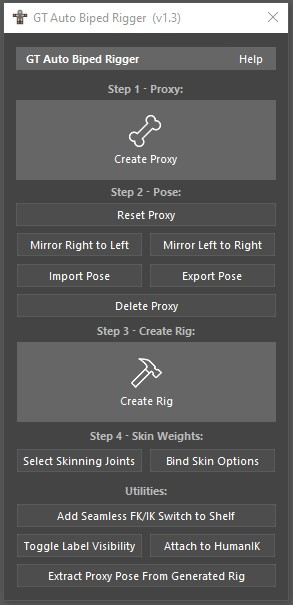
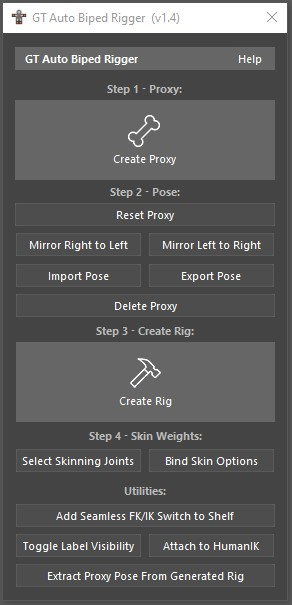
Created auto breathing system (#35)

diff --git a/python-scripts/gt_auto_biped_rigger.py b/python-scripts/gt_auto_biped_rigger.py
@@ -47,6 +47,7 @@
  Added finger abduction/adduction control and updated the name of a few attributes
     
  1.4 - 2021-01-23
+ Create auto breathing system
  Added check for geometry group (common name)
  Updated "orient_to_target" function to enforce proxy direction properly
  Added manip default to the foot roll controls
@@ -57,8 +58,9 @@
  Created sin function without expressions
  Created a trigonometry sine function that doesn't use third-party plugins or expressions
  Added debugging option to auto import proxy templates and auto bind geometry
-     Added auto breathing system
-     Added notes to the knee proxies (similar to elbows)
+ Added a check for required plugins before running the script
+ Changed the data transfer type of the clavicles to allow for offsets (for auto breathing)
+ Added notes to the knee proxies (similar to elbows)
  
 
  To do:
@@ -98,7 +100,7 @@ import re
 script_name = "GT Auto Biped Rigger"
 
 # Version:
-script_version = "1.4-beta"
+script_version = "1.4"
 
 # General Vars
 grp_suffix = 'grp'
@@ -116,11 +118,12 @@ automation_ctrl_color = (.6,.2,1) # Purple
 # Debugging Vars
 debugging = False # Activate Debugging Mode
 debugging_auto_recreate = True # Auto deletes proxy/rig before creating
-debugging_display_lra = True # Display LRA for all joints after generating
+debugging_display_lra = False # Display LRA for all joints after generating
+debugging_auto_breathing = True # Auto activates breathing Time
 debugging_import_proxy = True # Auto Imports Proxy
-debugging_import_path = '' # Path to auto import
+debugging_import_path = 'C:\\template.json' # Path to auto import
 debugging_bind_rig = True # Auto Binds Rig
-debugging_bind_geo = '' # Name of the geo to bind
+debugging_bind_geo = 'body_geo' # Name of the geo to bind
 
 # Loaded Elements Dictionary
 gt_ab_settings = { # General Settings
@@ -863,7 +866,7 @@ def make_stretchy_ik(ik_handle, stretchy_name='temp', attribute_holder=None):
     return [end_loc_one, stretchy_grp, end_ik_jnt]
 
 
-def add_sine_attributes(obj, sine_prefix='sine', tick_source_attr='time1.outTime', hide_used_inputs=True, add_absolute_output=False, nice_name_prefix=True):
+def add_sine_attributes(obj, sine_prefix='sine', tick_source_attr='time1.outTime', hide_unkeyable=True, add_absolute_output=False, nice_name_prefix=True):
     ''' 
     Create Sine function without using third-party plugins or expressions
     
@@ -871,11 +874,13 @@ def add_sine_attributes(obj, sine_prefix='sine', tick_source_attr='time1.outTime
                 obj (string): Name of the object
                 sine (string): Prefix given to the name of the attributes (default is "sine")
                 tick_source_attr (string): Name of the attribute used as the source for time. It uses the default "time1" node if nothing else is specified
-                hide_used_inputs (bool): Hides the tick and output attributes as they already have an input connection
+                hide_unkeyable (bool): Hides the tick and output attributes
                 add_absolute_output (bool): Also creates an output version that gives only positive numbers much like the abs() expression
 
             Returns:
-                sine_output_attr (string): A string with the name of the object and the name of the sine output attribute. E.g. "pSphere1.sineOutput"
+                sine_output_attrs (list): A string with the name of the object and the name of the sine output attribute. E.g. "pSphere1.sineOutput"
+                                          In case an absolute output is added, it will be the second object in the list. E.g. ["pSphere1.sineOutput", "pSphere1.sineAbsOutput"]
+                                          If add_absolute_output is False the second attribute is None
     '''
     # Load Required Plugins
     required_plugin = 'quatNodes'
@@ -883,7 +888,7 @@ def add_sine_attributes(obj, sine_prefix='sine', tick_source_attr='time1.outTime
         cmds.loadPlugin(required_plugin, qt=False)
   
     # Set Variables
-    influence_suffix = 'TimeInfluence'
+    influence_suffix = 'Time'
     amplitude_suffix = 'Amplitude'
     frequency_suffix = 'Frequency'
     offset_suffix = 'Offset'
@@ -917,7 +922,7 @@ def add_sine_attributes(obj, sine_prefix='sine', tick_source_attr='time1.outTime
         if add_absolute_output:
             cmds.addAttr(obj, ln=abs_attr, at='double', k=True)
     else:
-        cmds.addAttr(obj, ln=influence_attr, at='double', k=True, maxValue=1, minValue=0, nn=re.sub(r'(\w)([A-Z])', r'\1 \2', influence_suffix))
+        cmds.addAttr(obj, ln=influence_attr, at='double', k=True, maxValue=1, minValue=0, nn=influence_suffix)
         cmds.addAttr(obj, ln=amplitude_attr, at='double', k=True, nn=amplitude_suffix)
         cmds.addAttr(obj, ln=frequency_attr, at='double', k=True, nn=frequency_suffix)
         cmds.addAttr(obj, ln=offset_attr, at='double', k=True, nn=offset_suffix)
@@ -929,9 +934,11 @@ def add_sine_attributes(obj, sine_prefix='sine', tick_source_attr='time1.outTime
     cmds.setAttr(obj + '.' + amplitude_attr, 1)
     cmds.setAttr(obj + '.' + frequency_attr, 10)
     
-    if hide_used_inputs:
+    if hide_unkeyable:
         cmds.setAttr(obj + '.' + tick_attr, k=False)
         cmds.setAttr(obj + '.' + output_attr, k=False)
+    if add_absolute_output and hide_unkeyable:
+        cmds.setAttr(obj + '.' + abs_attr, k=False)
     
     cmds.connectAttr(tick_source_attr, influence_multiply_node + '.input1X')
     cmds.connectAttr(influence_multiply_node + '.outputX', obj + '.' + tick_attr)
@@ -957,8 +964,11 @@ def add_sine_attributes(obj, sine_prefix='sine', tick_source_attr='time1.outTime
         cmds.connectAttr(obj + '.' + output_attr, squared_node + '.input1X')
         cmds.connectAttr(squared_node + '.outputX', reverse_squared_node + '.input1X')
         cmds.connectAttr(reverse_squared_node + '.outputX', obj + '.' + abs_attr)
+        return [(obj + '.' + output_attr), (obj + '.' + abs_attr)]
+    else:
+        return [(obj + '.' + output_attr), None]
     
-    return (obj + '.' + output_attr)
+    
 
 
 def create_visualization_line(object_a, object_b):
@@ -1237,6 +1247,13 @@ def validate_operation(operation, debugging=False):
                 debugging (bool): Debugging mode causes the script to auto delete previous objects (for quick iteration)
 
     '''
+    
+    # Load Required Plugins
+    required_plugins = ['quatNodes','matrixNodes']
+    for plugin in required_plugins:
+        if not cmds.pluginInfo(plugin, q=True, loaded=True):
+            cmds.loadPlugin(plugin, qt=False)
+    
     is_valid = True
     if operation == 'create_proxy':
         # Debugging (Auto deletes generated proxy)
@@ -2389,9 +2406,13 @@ def create_proxy(colorize_proxy=True):
             # Notes Only
             if gt_ab_settings.get('left_eye_proxy_crv') in proxy_crv or gt_ab_settings.get('right_eye_proxy_crv') in proxy_crv:
                 add_node_note(proxy_crv, 'This is an eye proxy.\nThis element should be snapped to the center of the eye geometry.\nYou can see the center of the eye by selecting the eye geometry then going to "Display > Transform Display > Local Rotation Axes".\nYou can then use this axis to snap the joint to its center. (Using "Ctrl + V")\n\nPS: If for some reason the pivot point is not in the center of the eye, you can reset it first: "Modify > Center Pivot".')
+            
             if gt_ab_settings.get('left_elbow_proxy_crv') in proxy_crv or gt_ab_settings.get('right_elbow_proxy_crv') in proxy_crv:
                 add_node_note(proxy_crv, 'This is an elbow proxy.\nThe movement of this element is intentionaly limited to attempt to keep the joints in one single plane. For better results keep the arm joints in "T" or "A" pose.')
-                
+            
+            if gt_ab_settings.get('left_knee_proxy_crv') in proxy_crv or gt_ab_settings.get('right_knee_proxy_crv') in proxy_crv:
+                add_node_note(proxy_crv, 'This is a knee proxy.\nThe movement of this element is intentionaly limited to attempt to keep the joints in one single plane. For better results keep the leg joints in "T" or "A" pose.')
+
             if colorize_proxy:
                 change_viewport_color(proxy_crv, color)
             if colorize_proxy and is_end_jnt:
@@ -6354,7 +6375,11 @@ def create_controls():
     cmds.parent(left_forearm_grp, arms_automation_grp)
     cmds.parent(right_forearm_grp, arms_automation_grp)
     
-    # Top Groups Groups
+    # General Automation Hierarchy - Used for auto breathing
+    general_automation_grp = cmds.group(name='generalAutomation_grp', world=True, empty=True)
+    change_outliner_color(general_automation_grp, (1, .65, .45))
+    
+    ###### Main Hierarchy for Top Parent Groups ######
     if cmds.objExists('geometry_grp'):
         geometry_grp = 'geometry_grp'
     else:
@@ -6363,6 +6388,7 @@ def create_controls():
     rig_grp = cmds.group(name='rig_grp', empty=True, world=True)
     change_outliner_color(rig_grp, (1,.45,.7))
     cmds.parent(stretchy_system_grp, rig_setup_grp)
+    cmds.parent(general_automation_grp, rig_setup_grp)
     cmds.parent(arms_automation_grp, rig_setup_grp)
     cmds.parent(finger_automation_grp, rig_setup_grp)
     cmds.parent(spine_automation_grp, rig_setup_grp)
@@ -6408,14 +6434,15 @@ def create_controls():
     
     ################# Joint Inflation System #################
     
-    # Elements to Inflate/Deflate
+    # Elements to Inflate/Deflate - Ctrl, CtrlGrp, Joint, CreateOffset?
+    create_offset = True
     inflation_system_groups = [
         [cog_ctrl, cog_ctrl_grp, gt_ab_joints.get('cog_jnt')], 
         [hip_ctrl, hip_ctrl_grp, gt_ab_joints.get('hip_jnt')], 
-        [spine01_ctrl, spine01_ctrl_grp, gt_ab_joints.get('spine01_jnt')],
-        [spine02_ctrl, spine02_ctrl_grp, gt_ab_joints.get('spine02_jnt')],
-        [spine03_ctrl, spine03_ctrl_grp, gt_ab_joints.get('spine03_jnt')],
-        [spine04_ctrl, spine04_ctrl_grp, gt_ab_joints.get('spine04_jnt')],
+        [spine01_ctrl, spine01_ctrl_grp, gt_ab_joints.get('spine01_jnt'), create_offset],
+        [spine02_ctrl, spine02_ctrl_grp, gt_ab_joints.get('spine02_jnt'), create_offset],
+        [spine03_ctrl, spine03_ctrl_grp, gt_ab_joints.get('spine03_jnt'), create_offset],
+        [spine04_ctrl, spine04_ctrl_grp, gt_ab_joints.get('spine04_jnt'), create_offset],
    
         [neck_base_ctrl, neck_base_ctrl_grp, gt_ab_joints.get('neck_base_jnt')],
         [neck_mid_ctrl, neck_mid_ctrl_grp, gt_ab_joints.get('neck_mid_jnt')],
@@ -6494,8 +6521,8 @@ def create_controls():
     ]
     
     # Joint Inflation Basic Setup
-    for ctrl_grps in inflation_system_groups: # Ctrl, CtrlGrp, Joint
-        
+    for ctrl_grps in inflation_system_groups: # Ctrl, CtrlGrp, Joint, CreateOffset?
+    
         blend_node = cmds.createNode('blendColors', name= ctrl_grps[0].replace(ctrl_suffix, '') + 'inflation_blend')
    
         cmds.setAttr(blend_node + '.color2R', 1)
@@ -6516,6 +6543,20 @@ def create_controls():
         cmds.setAttr(ctrl_grps[0] + '.minScaleXLimitEnable', 1)
         cmds.setAttr(ctrl_grps[0] + '.minScaleYLimitEnable', 1)
         cmds.setAttr(ctrl_grps[0] + '.minScaleZLimitEnable', 1)
+        
+        if len(ctrl_grps) > 3: # Create Offset Input
+            if ctrl_grps[3]:
+                offset_node = cmds.createNode('plusMinusAverage', name= ctrl_grps[0].replace(ctrl_suffix, '') + 'offset_sum')
+                
+                cmds.addAttr(ctrl_grps[0] , ln='scaleOffset', at='double3', k=False)
+                cmds.addAttr(ctrl_grps[0] , ln='scaleOffsetX', at='double', k=False, minValue=0, parent='scaleOffset')
+                cmds.addAttr(ctrl_grps[0] , ln='scaleOffsetY', at='double', k=False, minValue=0, parent='scaleOffset')
+                cmds.addAttr(ctrl_grps[0] , ln='scaleOffsetZ', at='double', k=False, minValue=0, parent='scaleOffset')
+
+                cmds.connectAttr(blend_node + '.output', offset_node + '.input3D[0]', force=True)
+                cmds.connectAttr(ctrl_grps[0] + '.scaleOffset', offset_node + '.input3D[1]', force=True)
+                cmds.connectAttr(offset_node + '.output3D', ctrl_grps[2] + '.scale', force=True)
+                
     
     # Joint Inflation/Deflation Mechanics & Special Cases
     left_wrist_scale_blend = cmds.createNode('blendColors', name='left_wrist_switchScale_blend')
@@ -6570,13 +6611,107 @@ def create_controls():
     cmds.connectAttr(right_ball_scale_blend + '.output', gt_ab_joints.get('right_ball_jnt') + '.scale', f=True)
     cmds.connectAttr(right_leg_switch + '.influenceSwitch', right_ball_scale_blend + '.blender')
     
+    # Auto Breathing System
+    cmds.addAttr(main_ctrl, ln="autoBreathingSystem", at="enum", en="-------------:", keyable=True)
+    cmds.setAttr(main_ctrl + '.autoBreathingSystem', e=True, lock=True)
+    sine_output = add_sine_attributes(main_ctrl, sine_prefix='breathing', hide_unkeyable=True, add_absolute_output=False, nice_name_prefix=True)
+    
+    breathing_sine_min = -1
+    breathing_sine_max = 1
+    breathing_new_min = 0
+    limit_scale_prefix= 'maxScale' 
+    
+    for ctrl in [spine01_ctrl, spine02_ctrl, spine03_ctrl, spine04_ctrl]:
+        ctrl_name = ctrl.replace(ctrl_suffix, '').replace('_', '')
+        breathing_range_node = cmds.createNode('setRange', name=ctrl_name + '_breathing_range')
+        cmds.addAttr(main_ctrl, ln=limit_scale_prefix + ctrl_name.capitalize(), at='double', keyable=True)
+        
+        for attr in ['x', 'y', 'z']:
+            cmds.setAttr(breathing_range_node + '.oldMin' + attr.capitalize(), breathing_sine_min)
+            cmds.setAttr(breathing_range_node + '.oldMax' + attr.capitalize(), breathing_sine_max)
+            cmds.setAttr(breathing_range_node + '.min' + attr.capitalize(), breathing_new_min)
+            cmds.connectAttr(main_ctrl + '.' + limit_scale_prefix + ctrl_name.capitalize(), breathing_range_node + '.max' + attr.capitalize())
+        
+        cmds.connectAttr(sine_output[0], breathing_range_node + '.valueX')
+        cmds.connectAttr(sine_output[0], breathing_range_node + '.valueY')
+        cmds.connectAttr(sine_output[0], breathing_range_node + '.valueZ')
+        
+        cmds.connectAttr(breathing_range_node + '.outValueX', ctrl + '.scaleOffsetX')
+        cmds.connectAttr(breathing_range_node + '.outValueY', ctrl + '.scaleOffsetY')
+        cmds.connectAttr(breathing_range_node + '.outValueZ', ctrl + '.scaleOffsetZ')
+    
+    # Clean time1 input from main_ctrl
+    cmds.addAttr(main_ctrl_grp, ln='inputTime', at='double', keyable=True)
+    cmds.connectAttr('time1.outTime', main_ctrl_grp + '.inputTime', force=True)
+    breathing_multiply = cmds.listConnections(main_ctrl + '.breathingTime') or []
+    cmds.connectAttr(main_ctrl_grp + '.inputTime', breathing_multiply[0] + '.input1X', force=True)
+    
+    # Other Breathing Adjustments
+    cmds.setAttr(main_ctrl + '.' + limit_scale_prefix + 'Spine01', .05)
+    cmds.setAttr(main_ctrl + '.' + limit_scale_prefix + 'Spine02', .1)
+    cmds.setAttr(main_ctrl + '.' + limit_scale_prefix + 'Spine03', .15)
+    cmds.setAttr(main_ctrl + '.' + limit_scale_prefix + 'Spine04', .2)
+    if debugging and debugging_auto_breathing:
+        cmds.setAttr(main_ctrl + '.breathingTime', 1)
+    cmds.setAttr(main_ctrl + '.breathingFrequency', 6)
+    
+    # Create Alternative Setup for Clavicles
+    cmds.delete(left_clavicle_constraint)
+    cmds.delete(right_clavicle_constraint)
+    
+    left_clavicle_pos_loc = cmds.spaceLocator( name=left_clavicle_ctrl.replace(ctrl_suffix, 'posLoc') )[0]
+    right_clavicle_pos_loc = cmds.spaceLocator( name=right_clavicle_ctrl.replace(ctrl_suffix, 'posLoc') )[0]
+    
+    left_clavicle_pos_loc_grp = cmds.group(name=left_clavicle_pos_loc + 'Grp', world=True, empty=True )
+    right_clavicle_pos_loc_grp = cmds.group(name=right_clavicle_pos_loc + 'Grp', world=True, empty=True )
+    
+    cmds.parent(left_clavicle_pos_loc, left_clavicle_pos_loc_grp)
+    cmds.parent(right_clavicle_pos_loc, right_clavicle_pos_loc_grp)
+    
+    cmds.pointConstraint(left_clavicle_ctrl, left_clavicle_pos_loc_grp)
+    cmds.pointConstraint(right_clavicle_ctrl, right_clavicle_pos_loc_grp)
+    
+    cmds.pointConstraint(left_clavicle_pos_loc, gt_ab_joints.get('left_clavicle_jnt'))
+    cmds.pointConstraint(right_clavicle_pos_loc, gt_ab_joints.get('right_clavicle_jnt'))
+    
+    cmds.connectAttr(left_clavicle_ctrl + '.rotate', gt_ab_joints.get('left_clavicle_jnt') + '.rotate', force=True)
+    cmds.connectAttr(right_clavicle_ctrl + '.rotate', gt_ab_joints.get('right_clavicle_jnt') + '.rotate', force=True)
+    
+    cmds.parent(left_clavicle_pos_loc_grp, general_automation_grp) # Group created above with the other top parent groups
+    cmds.parent(right_clavicle_pos_loc_grp, general_automation_grp)
+    
+    # Clavicle Breathig Mechanics
+    for ctrl_pair in [(left_clavicle_ctrl, left_clavicle_pos_loc), (right_clavicle_ctrl, right_clavicle_pos_loc)]:
+        ctrl_name = ctrl_pair[0].replace('_' + ctrl_suffix, '')
+        if 'left_' in ctrl_name:
+            attr_name = 'L' + ctrl_name.replace('left_','').capitalize()
+            attr_nice_name = 'Max Trans L ' + ctrl_name.replace('left_','').capitalize()
+        else:
+            attr_name = 'R' + ctrl_name.replace('right_','').capitalize()
+            attr_nice_name = 'Max Trans R ' + ctrl_name.replace('right_','').capitalize()
+        
+        breathing_range_node = cmds.createNode('setRange', name=ctrl_name + '_breathing_range')
+        
+        breathing_sine_min = -1
+        breathing_sine_max = 1
+        breathing_new_min = 0
+        limit_translate_prefix = 'maxTranslate'
+        
+        cmds.addAttr(main_ctrl, ln=limit_translate_prefix + attr_name, at='double', keyable=True, nn=attr_nice_name)
+            
+        for attr in ['x', 'y', 'z']:
+            cmds.setAttr(breathing_range_node + '.oldMin' + attr.capitalize(), breathing_sine_min)
+            cmds.setAttr(breathing_range_node + '.oldMax' + attr.capitalize(), breathing_sine_max)
+            cmds.setAttr(breathing_range_node + '.min' + attr.capitalize(), breathing_new_min)
+            cmds.connectAttr(main_ctrl + '.' + limit_translate_prefix + attr_name, breathing_range_node + '.max' + attr.capitalize())
+        
+        cmds.connectAttr(sine_output[0], breathing_range_node + '.valueX')
+        cmds.connectAttr(sine_output[0], breathing_range_node + '.valueY')
+        cmds.connectAttr(sine_output[0], breathing_range_node + '.valueZ')
+  
+        cmds.connectAttr(breathing_range_node + '.outValueY', ctrl_pair[1] + '.ty')
+        cmds.setAttr(main_ctrl + '.' + limit_translate_prefix + attr_name, 1)
 
-    # @@@
-    # cmds.addAttr(main_ctrl, ln="autoBreathingSystem", at="enum", en="-------------:", keyable=True)
-    # cmds.setAttr(main_ctrl + '.autoBreathingSystem', e=True, lock=True)
-    # #cmds.addAttr(attribute_holder , ln='stretch', at='double', k=True, minValue=0, maxValue=1)
-    # sine_output = add_sine_attributes(main_ctrl, sine_prefix='breathing', hide_used_inputs=False, add_absolute_output=True, nice_name_prefix=False)
-    # print(sine_output)
 
 
     ################# Bulletproof Controls #################
@@ -6681,7 +6816,7 @@ def create_controls():
     lock_hide_default_attr(stretchy_system_grp, visibility=False)
     lock_hide_default_attr(ik_solvers_grp, visibility=False)
     
-
+    
     # Create Seamless FK/IK Switch References
     left_ankle_ref_loc = cmds.spaceLocator( name=gt_ab_settings_default.get('left_ankle_ik_reference') )[0]
     cmds.delete(cmds.parentConstraint(left_foot_ik_ctrl, left_ankle_ref_loc))
@@ -7245,10 +7380,10 @@ def import_proxy_pose(debugging=False, debugging_path=''):
                                         set_unlocked_os_attr(curent_object[0], 'sy', curent_object[3][1])
                                         set_unlocked_os_attr(curent_object[0], 'sz', curent_object[3][2])
          
-
-                        unique_message = '<' + str(random.random()) + '>'
-                        cmds.inViewMessage(amg=unique_message + '<span style=\"color:#FF0000;text-decoration:underline;\">Proxy Pose</span><span style=\"color:#FFFFFF;\"> imported!</span>', pos='botLeft', fade=True, alpha=.9)
-                        sys.stdout.write('Pose imported from the file "' + pose_file + '".')
+                        if not debugging:
+                            unique_message = '<' + str(random.random()) + '>'
+                            cmds.inViewMessage(amg=unique_message + '<span style=\"color:#FF0000;text-decoration:underline;\">Proxy Pose</span><span style=\"color:#FFFFFF;\"> imported!</span>', pos='botLeft', fade=True, alpha=.9)
+                            sys.stdout.write('Pose imported from the file "' + pose_file + '".')
 
                 except Exception as e:
                     print(e)
